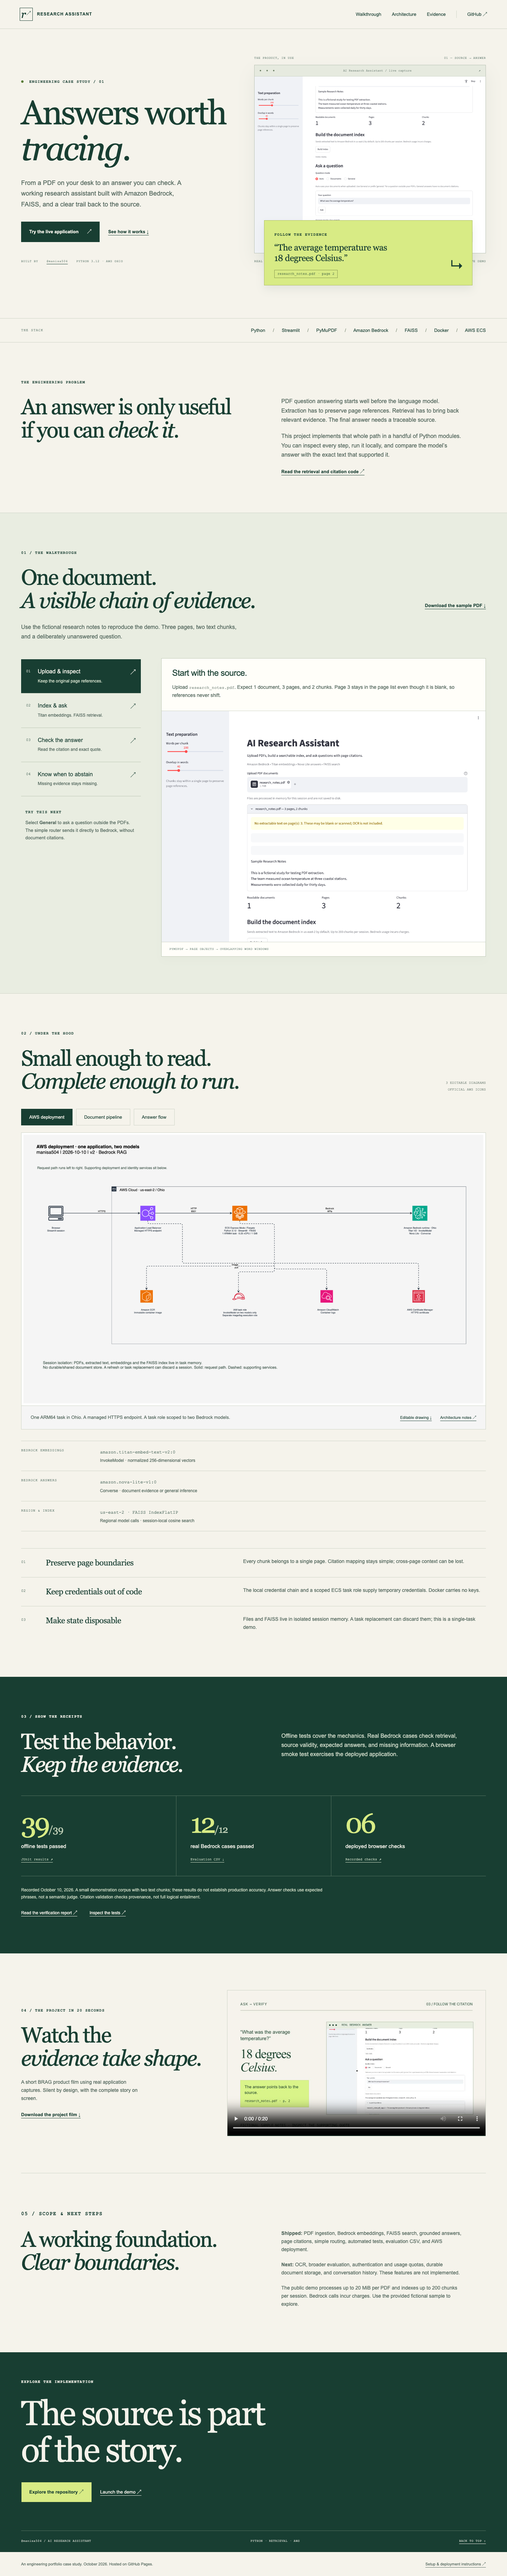
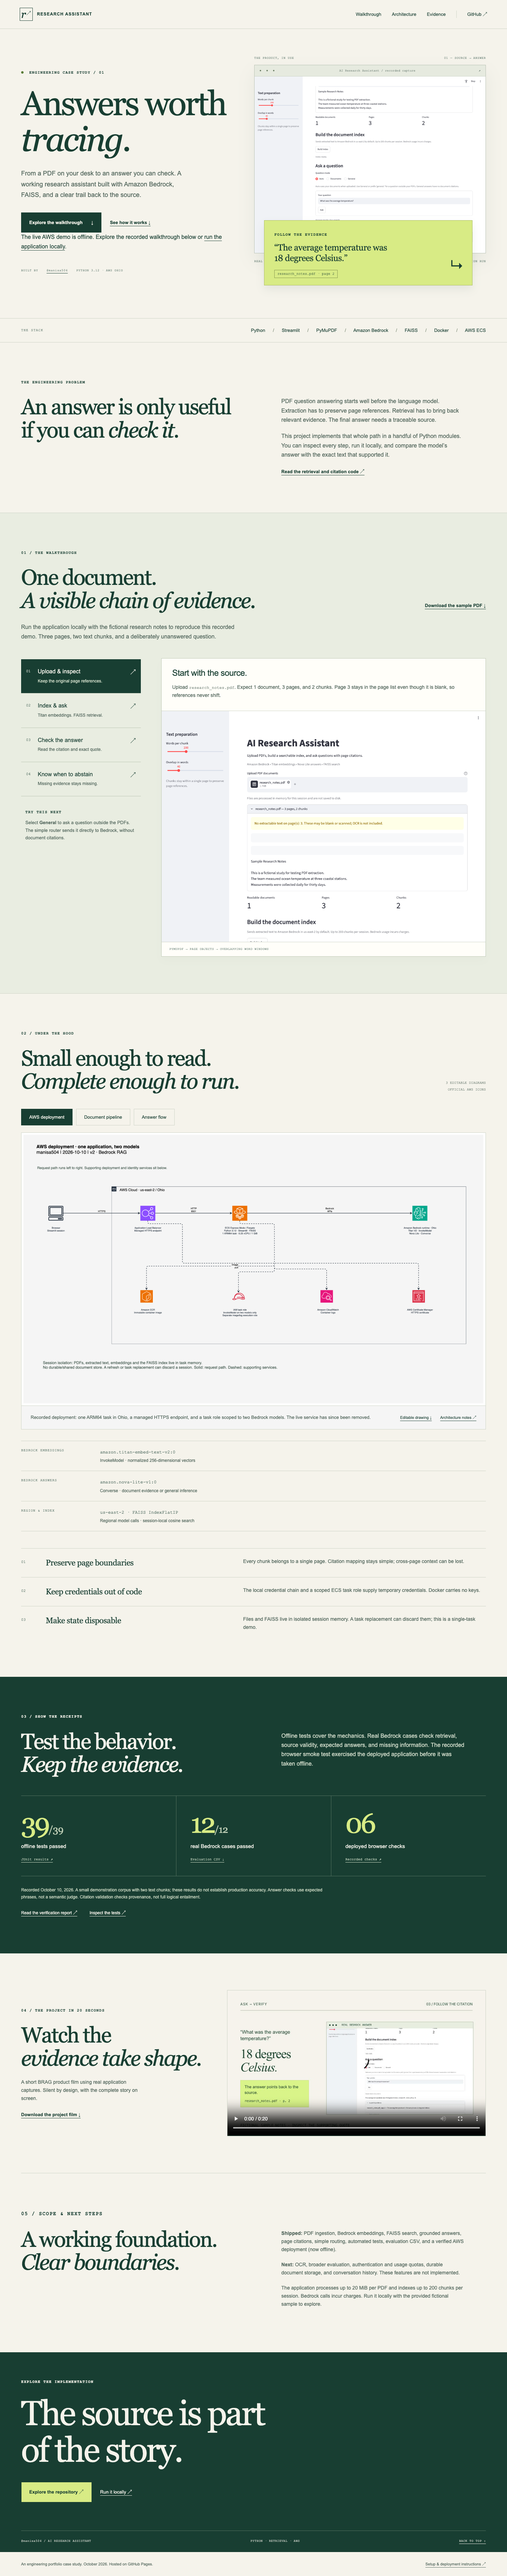
Mark retired AWS demo offline in project showcase

Changed region(s): [[0.0312, 0.0312, 0.4375, 0.0936]]

diff --git a/doc/index.html b/doc/index.html
@@ -11,12 +11,12 @@
 <header class="site-header"><a class="brand" href="#"><span class="brand-icon" aria-hidden="true">r<span>↗</span></span> RESEARCH ASSISTANT</a><nav aria-label="Main navigation"><a href="#walkthrough">Walkthrough</a><a href="#architecture">Architecture</a><a href="#proof">Evidence</a><a class="nav-github" href="https://github.com/manisa504/ai-research-assistant">GitHub ↗</a></nav></header>
 <main id="main">
 <section class="hero wrap" aria-labelledby="hero-title">
-<div class="hero-copy"><p class="eyebrow"><span class="dot"></span> ENGINEERING CASE STUDY / 01</p><h1 id="hero-title">Answers worth<br><em>tracing.</em></h1><p class="lede">From a PDF on your desk to an answer you can check. A working research assistant built with Amazon Bedrock, FAISS, and a clear trail back to the source.</p><div class="actions"><a class="button primary" href="https://ai-9cc795dd20a04970bca0dd0293f8831e.ecs.us-east-2.on.aws">Try the live application <span>↗</span></a><a class="text-link" href="#walkthrough">See how it works ↓</a></div><p class="hero-foot">BUILT BY <a href="https://github.com/manisa504">@manisa504</a><span>PYTHON 3.12 · AWS OHIO</span></p></div>
-<div class="hero-visual"><div class="visual-top"><span>THE PRODUCT, IN USE</span><span>01 — SOURCE → ANSWER</span></div><div class="browser-frame"><div class="browser-chrome"><span class="traffic" aria-hidden="true">● ● ●</span><span>AI Research Assistant / live capture</span><span aria-hidden="true">↗</span></div><img src="evidence/03-answer.png" width="1440" height="1100" alt="Actual Streamlit interface answering a temperature question with a research_notes.pdf page 2 citation."></div><div class="source-note"><span class="mini-label">FOLLOW THE EVIDENCE</span><p>“The average temperature was <strong>18 degrees Celsius.</strong>”</p><span class="citation">research_notes.pdf · page 2</span><span class="note-arrow" aria-hidden="true">↳</span></div><div class="visual-bottom"><span>REAL BEDROCK INFERENCE</span><span>NO MOCK ANSWERS IN THE LIVE DEMO</span></div></div>
+<div class="hero-copy"><p class="eyebrow"><span class="dot"></span> ENGINEERING CASE STUDY / 01</p><h1 id="hero-title">Answers worth<br><em>tracing.</em></h1><p class="lede">From a PDF on your desk to an answer you can check. A working research assistant built with Amazon Bedrock, FAISS, and a clear trail back to the source.</p><div class="actions"><a class="button primary" href="#walkthrough">Explore the walkthrough <span>↓</span></a><a class="text-link" href="#walkthrough">See how it works ↓</a></div><p class="demo-status">The live AWS demo is offline. Explore the recorded walkthrough below or <a href="https://github.com/manisa504/ai-research-assistant#run-locally">run the application locally</a>.</p><p class="hero-foot">BUILT BY <a href="https://github.com/manisa504">@manisa504</a><span>PYTHON 3.12 · AWS OHIO</span></p></div>
+<div class="hero-visual"><div class="visual-top"><span>THE PRODUCT, IN USE</span><span>01 — SOURCE → ANSWER</span></div><div class="browser-frame"><div class="browser-chrome"><span class="traffic" aria-hidden="true">● ● ●</span><span>AI Research Assistant / recorded capture</span><span aria-hidden="true">↗</span></div><img src="evidence/03-answer.png" width="1440" height="1100" alt="Actual Streamlit interface answering a temperature question with a research_notes.pdf page 2 citation."></div><div class="source-note"><span class="mini-label">FOLLOW THE EVIDENCE</span><p>“The average temperature was <strong>18 degrees Celsius.</strong>”</p><span class="citation">research_notes.pdf · page 2</span><span class="note-arrow" aria-hidden="true">↳</span></div><div class="visual-bottom"><span>REAL BEDROCK INFERENCE</span><span>RECORDED APPLICATION RUN</span></div></div>
 </section>
 <div class="stack-bar"><div class="wrap"><span>THE STACK</span><p>Python <i>/</i> Streamlit <i>/</i> PyMuPDF <i>/</i> Amazon Bedrock <i>/</i> FAISS <i>/</i> Docker <i>/</i> AWS ECS</p></div></div>
 <section class="intro wrap section"><p class="eyebrow">THE ENGINEERING PROBLEM</p><div class="two-col"><h2>An answer is only useful<br>if you can <em>check it.</em></h2><div><p>PDF question answering starts well before the language model. Extraction has to preserve page references. Retrieval has to bring back relevant evidence. The final answer needs a traceable source.</p><p>This project implements that whole path in a handful of Python modules. You can inspect every step, run it locally, and compare the model’s answer with the exact text that supported it.</p><a class="text-link" href="https://github.com/manisa504/ai-research-assistant/blob/main/rag.py">Read the retrieval and citation code ↗</a></div></div></section>
-<section id="walkthrough" class="walkthrough section"><div class="wrap"><div class="section-head"><div><p class="eyebrow">01 / THE WALKTHROUGH</p><h2>One document.<br><em>A visible chain of evidence.</em></h2></div><a class="text-link" href="assets/research_notes.pdf" download>Download the sample PDF ↓</a></div><p class="section-description">Use the fictional research notes to reproduce the demo. Three pages, two text chunks, and a deliberately unanswered question.</p>
+<section id="walkthrough" class="walkthrough section"><div class="wrap"><div class="section-head"><div><p class="eyebrow">01 / THE WALKTHROUGH</p><h2>One document.<br><em>A visible chain of evidence.</em></h2></div><a class="text-link" href="assets/research_notes.pdf" download>Download the sample PDF ↓</a></div><p class="section-description">Run the application locally with the fictional research notes to reproduce this recorded demo. Three pages, two text chunks, and a deliberately unanswered question.</p>
 <div class="walk-layout"><div class="step-list" role="tablist" aria-label="Application walkthrough" aria-orientation="vertical">
 <button id="step-1" class="step active" role="tab" aria-selected="true" aria-controls="walk-1"><span class="step-number">01</span><span><strong>Upload & inspect</strong><small>Keep the original page references.</small></span><span aria-hidden="true">↗</span></button>
 <button id="step-2" class="step" role="tab" aria-selected="false" aria-controls="walk-2" tabindex="-1"><span class="step-number">02</span><span><strong>Index & ask</strong><small>Titan embeddings. FAISS retrieval.</small></span><span aria-hidden="true">↗</span></button>
@@ -31,15 +31,15 @@
 </div></div></div></section>
 <section id="architecture" class="section wrap"><div class="section-head"><div><p class="eyebrow">02 / UNDER THE HOOD</p><h2>Small enough to read.<br><em>Complete enough to run.</em></h2></div><span class="section-aside">3 EDITABLE DIAGRAMS<br>OFFICIAL AWS ICONS</span></div>
 <div class="diagram-tabs" role="tablist" aria-label="Architecture views"><button id="arch-1" role="tab" aria-selected="true" aria-controls="diagram-1">AWS deployment</button><button id="arch-2" role="tab" aria-selected="false" aria-controls="diagram-2" tabindex="-1">Document pipeline</button><button id="arch-3" role="tab" aria-selected="false" aria-controls="diagram-3" tabindex="-1">Answer flow</button></div>
-<div class="diagram-panel" id="diagram-1" role="tabpanel" aria-labelledby="arch-1"><a href="diagrams/aws-deployment.drawio.png"><img width="2422" height="1422" src="diagrams/aws-deployment.drawio.png" alt="Browser to managed HTTPS load balancer to one Fargate task invoking Amazon Bedrock, with ECR, IAM, CloudWatch and ACM support." loading="lazy"></a><div><p>One ARM64 task in Ohio. A managed HTTPS endpoint. A task role scoped to two Bedrock models.</p><a href="diagrams/aws-deployment.drawio" download>Editable drawing ↓</a><a href="diagrams/aws-deployment.md">Architecture notes ↗</a></div></div>
+<div class="diagram-panel" id="diagram-1" role="tabpanel" aria-labelledby="arch-1"><a href="diagrams/aws-deployment.drawio.png"><img width="2422" height="1422" src="diagrams/aws-deployment.drawio.png" alt="Browser to managed HTTPS load balancer to one Fargate task invoking Amazon Bedrock, with ECR, IAM, CloudWatch and ACM support." loading="lazy"></a><div><p>Recorded deployment: one ARM64 task in Ohio, a managed HTTPS endpoint, and a task role scoped to two Bedrock models. The live service has since been removed.</p><a href="diagrams/aws-deployment.drawio" download>Editable drawing ↓</a><a href="diagrams/aws-deployment.md">Architecture notes ↗</a></div></div>
 <div class="diagram-panel" id="diagram-2" role="tabpanel" aria-labelledby="arch-2" hidden><a href="diagrams/document-pipeline.drawio.png"><img width="2422" height="1422" src="diagrams/document-pipeline.drawio.png" alt="PDF validation, page extraction, page-bound chunks, Titan embeddings, and a session-local FAISS index." loading="lazy"></a><div><p>Explicit indexing keeps extraction inspectable. Changing uploads invalidates stale evidence.</p><a href="diagrams/document-pipeline.drawio" download>Editable drawing ↓</a><a href="diagrams/document-pipeline.md">Pipeline notes ↗</a></div></div>
 <div class="diagram-panel" id="diagram-3" role="tabpanel" aria-labelledby="arch-3" hidden><a href="diagrams/answer-flow.drawio.png"><img width="2422" height="1422" src="diagrams/answer-flow.drawio.png" alt="Rule-based router selects document retrieval or general inference, then source validation yields a cited answer or an abstention." loading="lazy"></a><div><p>Retrieve evidence, generate claims, verify provenance. General questions take one direct inference path.</p><a href="diagrams/answer-flow.drawio" download>Editable drawing ↓</a><a href="diagrams/answer-flow.md">Answer-flow notes ↗</a></div></div>
-<dl class="model-config" aria-label="Deployed model configuration"><div><dt>BEDROCK EMBEDDINGS</dt><dd><code>amazon.titan-embed-text-v2:0</code><span>InvokeModel · normalized 256-dimensional vectors</span></dd></div><div><dt>BEDROCK ANSWERS</dt><dd><code>amazon.nova-lite-v1:0</code><span>Converse · document evidence or general inference</span></dd></div><div><dt>REGION & INDEX</dt><dd><code>us-east-2 · FAISS IndexFlatIP</code><span>Regional model calls · session-local cosine search</span></dd></div></dl>
+<dl class="model-config" aria-label="Recorded deployment model configuration"><div><dt>BEDROCK EMBEDDINGS</dt><dd><code>amazon.titan-embed-text-v2:0</code><span>InvokeModel · normalized 256-dimensional vectors</span></dd></div><div><dt>BEDROCK ANSWERS</dt><dd><code>amazon.nova-lite-v1:0</code><span>Converse · document evidence or general inference</span></dd></div><div><dt>REGION & INDEX</dt><dd><code>us-east-2 · FAISS IndexFlatIP</code><span>Regional model calls · session-local cosine search</span></dd></div></dl>
 <div class="decision-list"><div><span>01</span><h3>Preserve page boundaries</h3><p>Every chunk belongs to a single page. Citation mapping stays simple; cross-page context can be lost.</p></div><div><span>02</span><h3>Keep credentials out of code</h3><p>The local credential chain and a scoped ECS task role supply temporary credentials. Docker carries no keys.</p></div><div><span>03</span><h3>Make state disposable</h3><p>Files and FAISS live in isolated session memory. A task replacement can discard them; this is a single-task demo.</p></div></div></section>
-<section id="proof" class="proof section"><div class="wrap"><p class="eyebrow">03 / SHOW THE RECEIPTS</p><div class="two-col"><h2>Test the behavior.<br><em>Keep the evidence.</em></h2><p>Offline tests cover the mechanics. Real Bedrock cases check retrieval, source validity, expected answers, and missing information. A browser smoke test exercises the deployed application.</p></div><div class="proof-stats"><div><strong>39<span>/39</span></strong><p>offline tests passed</p><a href="evidence/pytest.xml">JUnit results ↗</a></div><div><strong>12<span>/12</span></strong><p>real Bedrock cases passed</p><a href="evidence/evaluation_results.csv" download>Evaluation CSV ↓</a></div><div><strong>06</strong><p>deployed browser checks</p><a href="evidence/browser-smoke.json">Recorded checks ↗</a></div></div><p class="proof-note">Recorded October 10, 2026. A small demonstration corpus with two text chunks; these results do not establish production accuracy. Answer checks use expected phrases, not a semantic judge. Citation validation checks provenance, not full logical entailment.</p><div class="proof-links"><a href="evidence/verification.md">Read the verification report ↗</a><a href="https://github.com/manisa504/ai-research-assistant/tree/main/tests">Inspect the tests ↗</a></div></div></section>
+<section id="proof" class="proof section"><div class="wrap"><p class="eyebrow">03 / SHOW THE RECEIPTS</p><div class="two-col"><h2>Test the behavior.<br><em>Keep the evidence.</em></h2><p>Offline tests cover the mechanics. Real Bedrock cases check retrieval, source validity, expected answers, and missing information. The recorded browser smoke test exercised the deployed application before it was taken offline.</p></div><div class="proof-stats"><div><strong>39<span>/39</span></strong><p>offline tests passed</p><a href="evidence/pytest.xml">JUnit results ↗</a></div><div><strong>12<span>/12</span></strong><p>real Bedrock cases passed</p><a href="evidence/evaluation_results.csv" download>Evaluation CSV ↓</a></div><div><strong>06</strong><p>deployed browser checks</p><a href="evidence/browser-smoke.json">Recorded checks ↗</a></div></div><p class="proof-note">Recorded October 10, 2026. A small demonstration corpus with two text chunks; these results do not establish production accuracy. Answer checks use expected phrases, not a semantic judge. Citation validation checks provenance, not full logical entailment.</p><div class="proof-links"><a href="evidence/verification.md">Read the verification report ↗</a><a href="https://github.com/manisa504/ai-research-assistant/tree/main/tests">Inspect the tests ↗</a></div></div></section>
 <section class="film section wrap"><div><p class="eyebrow">04 / THE PROJECT IN 20 SECONDS</p><h2>Watch the<br><em>evidence take shape.</em></h2><p>A short BRAG product film using real application captures. Silent by design, with the complete story on screen.</p><a class="text-link" href="assets/brag.mp4" download>Download the project film ↓</a></div><video controls playsinline preload="metadata" poster="assets/brag.jpg" aria-label="20-second demonstration of PDF upload, Bedrock question answering, and a page citation"><source src="assets/brag.mp4" type="video/mp4"><a href="assets/brag.mp4">Download the video</a></video></section>
-<section class="next section wrap"><p class="eyebrow">05 / SCOPE & NEXT STEPS</p><div class="two-col"><h2>A working foundation.<br><em>Clear boundaries.</em></h2><div><p><strong>Shipped:</strong> PDF ingestion, Bedrock embeddings, FAISS search, grounded answers, page citations, simple routing, automated tests, evaluation CSV, and AWS deployment.</p><p><strong>Next:</strong> OCR, broader evaluation, authentication and usage quotas, durable document storage, and conversation history. These features are not implemented.</p><p>The public demo processes up to 20 MiB per PDF and indexes up to 200 chunks per session. Bedrock calls incur charges. Use the provided fictional sample to explore.</p></div></div></section>
-<section class="closing"><div class="wrap"><p class="eyebrow">EXPLORE THE IMPLEMENTATION</p><h2>The source is part<br>of the story.</h2><div class="actions"><a class="button lime" href="https://github.com/manisa504/ai-research-assistant">Explore the repository ↗</a><a class="closing-link" href="https://ai-9cc795dd20a04970bca0dd0293f8831e.ecs.us-east-2.on.aws">Launch the demo ↗</a></div><div class="closing-bottom"><span>@manisa504 / AI RESEARCH ASSISTANT</span><span>PYTHON · RETRIEVAL · AWS</span><a href="#">BACK TO TOP ↑</a></div></div></section>
+<section class="next section wrap"><p class="eyebrow">05 / SCOPE & NEXT STEPS</p><div class="two-col"><h2>A working foundation.<br><em>Clear boundaries.</em></h2><div><p><strong>Shipped:</strong> PDF ingestion, Bedrock embeddings, FAISS search, grounded answers, page citations, simple routing, automated tests, evaluation CSV, and a verified AWS deployment (now offline).</p><p><strong>Next:</strong> OCR, broader evaluation, authentication and usage quotas, durable document storage, and conversation history. These features are not implemented.</p><p>The application processes up to 20 MiB per PDF and indexes up to 200 chunks per session. Bedrock calls incur charges. Run it locally with the provided fictional sample to explore.</p></div></div></section>
+<section class="closing"><div class="wrap"><p class="eyebrow">EXPLORE THE IMPLEMENTATION</p><h2>The source is part<br>of the story.</h2><div class="actions"><a class="button lime" href="https://github.com/manisa504/ai-research-assistant">Explore the repository ↗</a><a class="closing-link" href="https://github.com/manisa504/ai-research-assistant#run-locally">Run it locally ↗</a></div><div class="closing-bottom"><span>@manisa504 / AI RESEARCH ASSISTANT</span><span>PYTHON · RETRIEVAL · AWS</span><a href="#">BACK TO TOP ↑</a></div></div></section>
 </main>
 <footer class="wrap"><span>An engineering portfolio case study. October 2026. Hosted on GitHub Pages.</span><a href="https://github.com/manisa504/ai-research-assistant/blob/main/README.md">Setup & deployment instructions ↗</a></footer>
 </body></html>

diff --git a/README.md b/README.md
@@ -4,10 +4,10 @@
 
 A working Python 3.12 RAG application that turns uploaded PDFs into searchable,
 page-referenced evidence using **Amazon Bedrock, FAISS, and Streamlit**. Built as
-a small, readable engineering project, deployed on AWS with a dedicated task
+a small, readable engineering project, previously deployed on AWS with a dedicated task
 identity and evaluated against a reproducible sample corpus.
 
-[Launch the AWS demo](https://ai-9cc795dd20a04970bca0dd0293f8831e.ecs.us-east-2.on.aws)
+**Live AWS demo: offline** · [Run locally](#run-locally)
 · [Project walkthrough](https://manisa504.github.io/ai-research-assistant/)
 · [Evaluation results](doc/evidence/evaluation_results.csv)
 · [Deployment guide](AWS_DEPLOYMENT.md)
@@ -32,7 +32,7 @@ core functionality; [AGENTS.md](AGENTS.md) records the updated completion criter
 
 ## A two-minute walkthrough
 
-1. Open the demo and upload [research_notes.pdf](sample_docs/research_notes.pdf).
+1. Run the application locally (see below) and upload [research_notes.pdf](sample_docs/research_notes.pdf).
    This fictional fixture contains three pages: two with text and one blank.
    Expect **1 document, 3 pages, 2 chunks** at default settings.
 2. Expand the file. Inspect page numbers, extracted text, and the blank-page warning.
@@ -58,7 +58,7 @@ use general inference. Prefix `general:` or select a mode to override this rule.
 [Editable draw.io source](doc/diagrams/aws-deployment.drawio)
 · [Architecture notes](doc/diagrams/aws-deployment.md)
 
-One Fargate task serves Streamlit behind a managed HTTPS Application Load Balancer
+The recorded AWS deployment used one Fargate task serving Streamlit behind a managed HTTPS Application Load Balancer
 in **us-east-2 (Ohio)**. The task's IAM role permits `bedrock:InvokeModel` on the
 two selected models. ECR, CloudWatch, and separate execution/infrastructure roles
 support deployment. See the deployment guide for the App Runner constraints that
@@ -169,8 +169,8 @@ brag-output/              Reproducible launch-video plan and composition
 
 [Follow AWS_DEPLOYMENT.md](AWS_DEPLOYMENT.md) for model access, IAM, Docker,
 deployment, verification, costs, and cleanup. Fargate, the load balancer, IPv4,
-logs, image storage, and Bedrock input/output usage incur charges. This public
-demo has no application login or per-user usage quota.
+logs, image storage, and Bedrock input/output usage incur charges. The live demo was removed on October 10, 2026. The application has no
+login or per-user usage quota.
 
 PDFs are limited to **20 MiB each**; indexing is capped at **200 chunks** per
 session and 12,000 characters per chunk. OCR, persistent storage, complex table

diff --git a/AWS_DEPLOYMENT.md b/AWS_DEPLOYMENT.md
@@ -7,14 +7,19 @@ and Nova Lite question answering with validated filename/page citations.
 
 ## Current deployment status
 
+**Offline as of October 10, 2026.** CloudTrail records deletion of the Express
+Mode service at 7:17 PM Pacific. The former endpoint no longer resolves.
+Run the application locally using the README instructions. The deployment
+and verification details below describe the recorded run before removal.
+
 On October 10, 2026, the `research` profile authenticated successfully.
 Organization policy denied the network check in `us-east-1`, `us-west-2`, and
 `eu-west-1`; `us-east-2` allowed it. The image, roles, cluster, and Express Mode
 service were created in Ohio. The first provisioning attempt failed during IAM
-propagation; a retry completed successfully and receives 100% of traffic.
+propagation; a retry completed successfully and received 100% of traffic before removal.
 
-Live application:
-https://ai-9cc795dd20a04970bca0dd0293f8831e.ecs.us-east-2.on.aws
+Former application endpoint (offline):
+`https://ai-9cc795dd20a04970bca0dd0293f8831e.ecs.us-east-2.on.aws`
 
 The Bedrock integration is verified separately from service health. See the
 [recorded browser checks](doc/evidence/browser-smoke.json) and the
@@ -29,7 +34,7 @@ The portfolio walkthrough is hosted separately at
 https://manisa504.github.io/ai-research-assistant/ using GitHub Pages.
 `.github/workflows/pages.yml` publishes the existing `doc/` folder directly.
 Set the Pages source to **GitHub Actions**, not the nonexistent `/docs` branch
-folder. The showcase contains static evidence and links to the ECS application;
+folder. The showcase contains static evidence, an offline notice, and local setup links;
 Bedrock inference and AWS credentials remain in the application runtime.
 The three architecture drawings describe that AWS application, not Pages hosting.
 
@@ -135,7 +140,7 @@ The Docker health check requires no credentials. A locally started container
 without a credential provider can parse PDFs but cannot invoke Bedrock. Use the
 local Python environment with an authenticated profile for the full local demo.
 
-Configuration: cluster/service/repository `ai-research-assistant`, ARM64,
+Recorded deployment configuration: cluster/service/repository `ai-research-assistant`, ARM64,
 0.25 vCPU, 1 GiB memory, one task, container port 8501, health endpoint
 `/_stcore/health`. The service uses the default VPC and an internet-facing HTTPS
 endpoint. It has no application login and is intended as a demonstration.

diff --git a/doc/README.md b/doc/README.md
@@ -52,14 +52,14 @@ The previous branch source `/docs` failed because this project uses singular
 `doc/`. Keep that directory and the workflow's `path: doc` consistent. Do not
 select `/docs` or add a Jekyll theme. Relative assets work under the repository
 subpath, including diagrams, evidence, the sample PDF and the project video.
-The static site makes no AWS calls; the live-demo buttons open the separate
-Bedrock application on ECS. Only `doc/` is included in the Pages artifact.
+The static site makes no AWS calls. The ECS demo is offline; the page links to
+the recorded walkthrough and local setup instructions. Only `doc/` is included in the Pages artifact.
 
 See [GitHub's custom Pages workflow documentation](https://docs.github.com/en/pages/getting-started-with-github-pages/using-custom-workflows-with-github-pages).
 
-## Deployed Bedrock flow
+## Recorded Bedrock deployment flow
 
-| Component | Current configuration |
+| Component | Recorded configuration |
 |---|---|
 | Chunk and query embeddings | Amazon Bedrock `amazon.titan-embed-text-v2:0`, InvokeModel, normalized 256-dimensional vectors |
 | Document and general answers | Amazon Bedrock `amazon.nova-lite-v1:0`, Converse |
@@ -68,7 +68,8 @@ See [GitHub's custom Pages workflow documentation](https://docs.github.com/en/pa
 | Runtime identity | Dedicated ECS task role permitting InvokeModel on the two model ARNs |
 
 The static `index.html` explains this flow; indexing and inference run in the
-separate Streamlit application linked from its live-demo buttons. Supporting
+separate Streamlit application, which can be run locally. The live ECS service
+was removed on October 10, 2026. Supporting
 evidence and source quotes are checked before the app renders document
 citations. General mode bypasses document retrieval. Session data is ephemeral.
 

diff --git a/doc/diagrams/aws-deployment.md b/doc/diagrams/aws-deployment.md
@@ -1,5 +1,9 @@
 # AWS deployment
 
+This drawing and its PNG export document the verified deployment before removal.
+The live ECS service was deleted on October 10, 2026; its endpoint is offline.
+The architecture below remains the reference for redeployment.
+
 1. Browser reaches the managed HTTPS load balancer.
 2. Traffic reaches the single Fargate task on port 8501.
 3. boto3 uses the task role to call the regional Bedrock runtime: Titan V2 via InvokeModel and Nova Lite via Converse.
